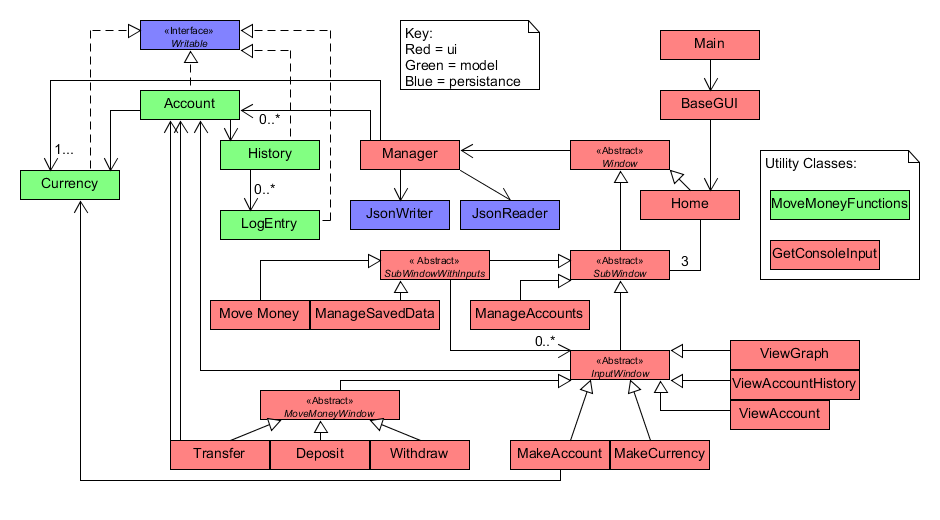
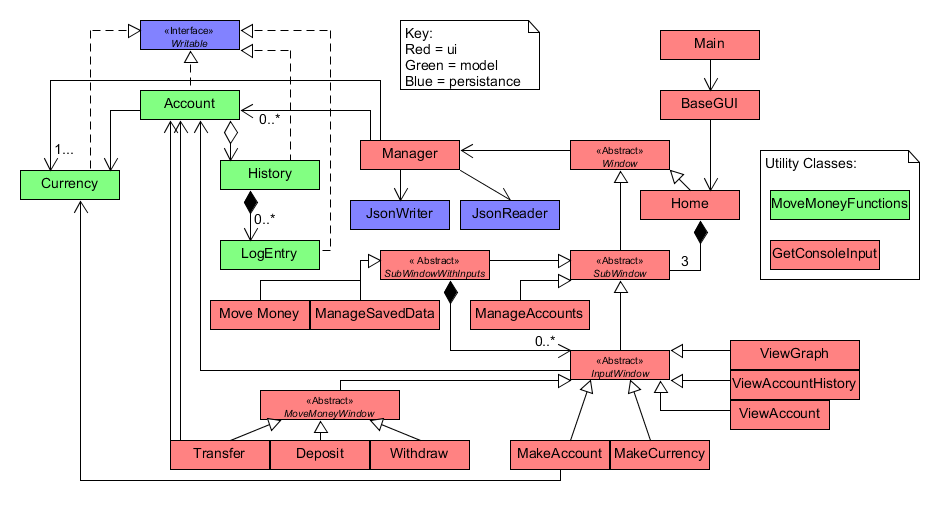
Updated UML_Design_Diagram to include stronger associations

Changed region(s): [[0.216, 0.2462, 0.3394, 0.5231], [0.7404, 0.4308, 0.7713, 0.4615], [0.4628, 0.5538, 0.4936, 0.5846]]

diff --git a/src/main/ui/windows/subwindows/SubWindowWithInputs.java b/src/main/ui/windows/subwindows/SubWindowWithInputs.java
@@ -5,7 +5,6 @@ import ui.windows.SubWindow;
 import ui.windows.subwindows.inputwindows.InputWindow;
 
 import javax.swing.*;
-import java.awt.*;
 import java.util.ArrayList;
 
 // Represents a window that has buttons leading to windows that take inputs

diff --git a/src/main/ui/windows/subwindows/inputwindows/InputWindow.java b/src/main/ui/windows/subwindows/inputwindows/InputWindow.java
@@ -5,7 +5,6 @@ import ui.windows.Home;
 import ui.windows.SubWindow;
 
 import javax.swing.*;
-import java.awt.*;
 import java.util.List;
 
 // Represents a window used to get user input
